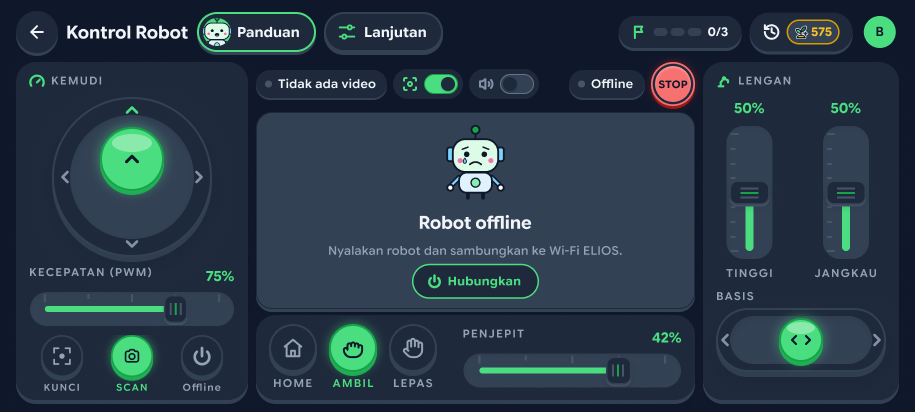
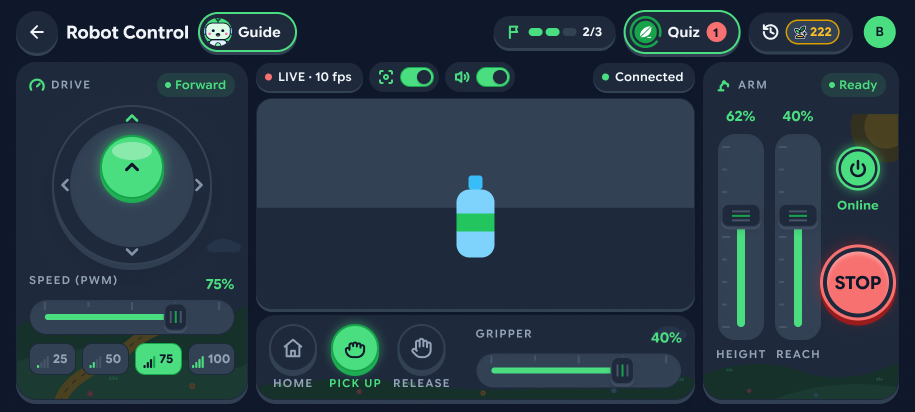
docs: README screens from the Figma ELIOS 3 page

diff --git a/README.md b/README.md
@@ -9,20 +9,38 @@ The camera can be the phone's own camera or the **MaixCAM2** on the robot. The
 AI is **Google Gemini**, called through a small backend so the API key never
 ships in the app.
 
-<p align="center">
-  <img src="docs/readme/scan-hub.png" width="220" alt="Scan hub">
-  <img src="docs/readme/scan-camera.png" width="220" alt="Scan and quiz: camera">
-  <img src="docs/readme/scan-identified.png" width="220" alt="Scan result: Plastic bottle, anorganik bin">
-  <img src="docs/readme/scan-question.png" width="220" alt="Quiz question">
-</p>
+### Phone app
 
 <p align="center">
-  <img src="docs/readme/control-light.png" width="600" alt="Robot control screen (light)">
-  <img src="docs/readme/control-dark.png" width="600" alt="Robot control screen (dark)">
+  <img src="docs/readme/login.png" width="180" alt="Sign in">
+  <img src="docs/readme/home.png" width="180" alt="Home">
+  <img src="docs/readme/learn.png" width="180" alt="Learn">
+  <img src="docs/readme/history.png" width="180" alt="History">
+  <img src="docs/readme/profile.png" width="180" alt="Profile">
 </p>
 
-Screens are from the [Figma file](https://www.figma.com/design/J2jSbARJSyJCStNFeWkWDj/)
-(pages L4 and R3). The app follows them; small differences can exist.
+### Scan and quiz with the phone
+
+<p align="center">
+  <img src="docs/readme/scan-hub.png" width="180" alt="Scan hub">
+  <img src="docs/readme/scan-camera.png" width="180" alt="Scan and quiz: camera">
+  <img src="docs/readme/scan-identified.png" width="180" alt="Scan result: Plastic bottle, anorganik bin">
+  <img src="docs/readme/scan-question.png" width="180" alt="Quiz question">
+  <img src="docs/readme/scan-essay.png" width="180" alt="Essay question">
+</p>
+
+### Robot control (phone landscape)
+
+<p align="center">
+  <img src="docs/readme/control-light.png" width="440" alt="Robot control, driving (light)">
+  <img src="docs/readme/control-dark.png" width="440" alt="Robot control, driving (dark)">
+  <img src="docs/readme/robot-identified.png" width="440" alt="Robot scan: item identified">
+  <img src="docs/readme/answer-review.png" width="440" alt="ELIOS AI answer review">
+</p>
+
+Screens are from the **ELIOS 3** page of the
+[Figma file](https://www.figma.com/design/J2jSbARJSyJCStNFeWkWDj/?node-id=628-2360).
+The app follows them; small differences can exist.
 
 ## Current status (19 Nov 2026)
 
@@ -115,7 +133,8 @@ wrong or missing tag stops the sort and sends the arm HOME. Hands in view
 pause the arm.
 
 <p align="center">
-  <img src="docs/readme/robot-bin-check.png" width="600" alt="Robot bin check before the quiz">
+  <img src="docs/readme/robot-guide.png" width="440" alt="Control guide, step 1: drive the robot">
+  <img src="docs/readme/robot-bin-check.png" width="440" alt="Robot bin check before the quiz">
 </p>
 
 Protocol and safety details: decisions

diff --git a/docs/HANDOFF.md b/docs/HANDOFF.md
@@ -1,5 +1,5 @@
 ## README refresh — `docs/readme-refresh` (19 Nov, from `feature/live-scan`)
-README rewritten: status table, architecture, Gemini identify + quiz flow, robot controls, run steps. Images exported from Figma (L4 scan, R3 control, architecture 79:135, bin check 860:28986) into `docs/readme/`. Docs only; no code or tests changed.
+README rewritten: status table, architecture, Gemini identify + quiz flow, robot controls, run steps. Images exported from the Figma ELIOS 3 page (login, home, learn, history, profile, scan flow, R3 control, guide, bin check) plus architecture 79:135 into `docs/readme/`. Docs only; no code or tests changed.
 ## Arm fader throttle — `feat/arm-fader-throttle` (0236, 19 Nov, from `feat/maixcam2-arm-bridge` 2d37825)
 `FaderThrottle` (`lib/services/robot/fader_throttle.dart`): gripper / Height / Reach drags run `_armMove` at most every 100 ms, last value always; STOP and dispose drop a waiting one. BASIS, HOME, PICK, RELEASE unchanged.
 Tests: `test/robot/fader_throttle_test.dart` (break-checked), full suite 2095 passed / 20 skipped, analyze + secret scan clean. Phone APK `7c4a97c` vs the MaixCAM2 over USB: 7 ARM_POSE per drag (was 54–66), end pose unchanged. Not pushed, no PR.
